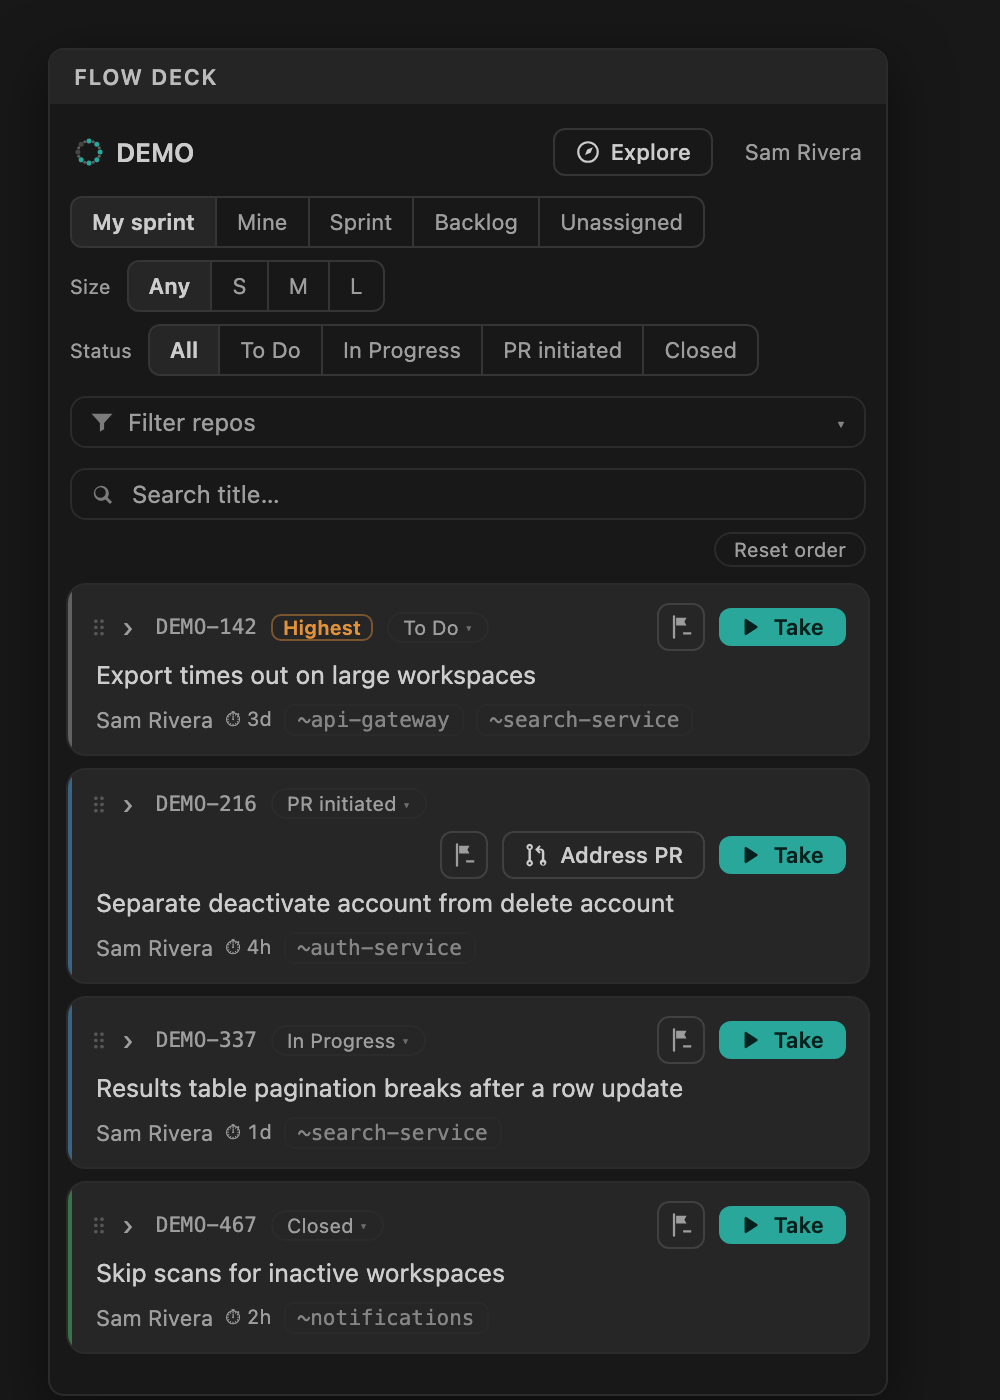
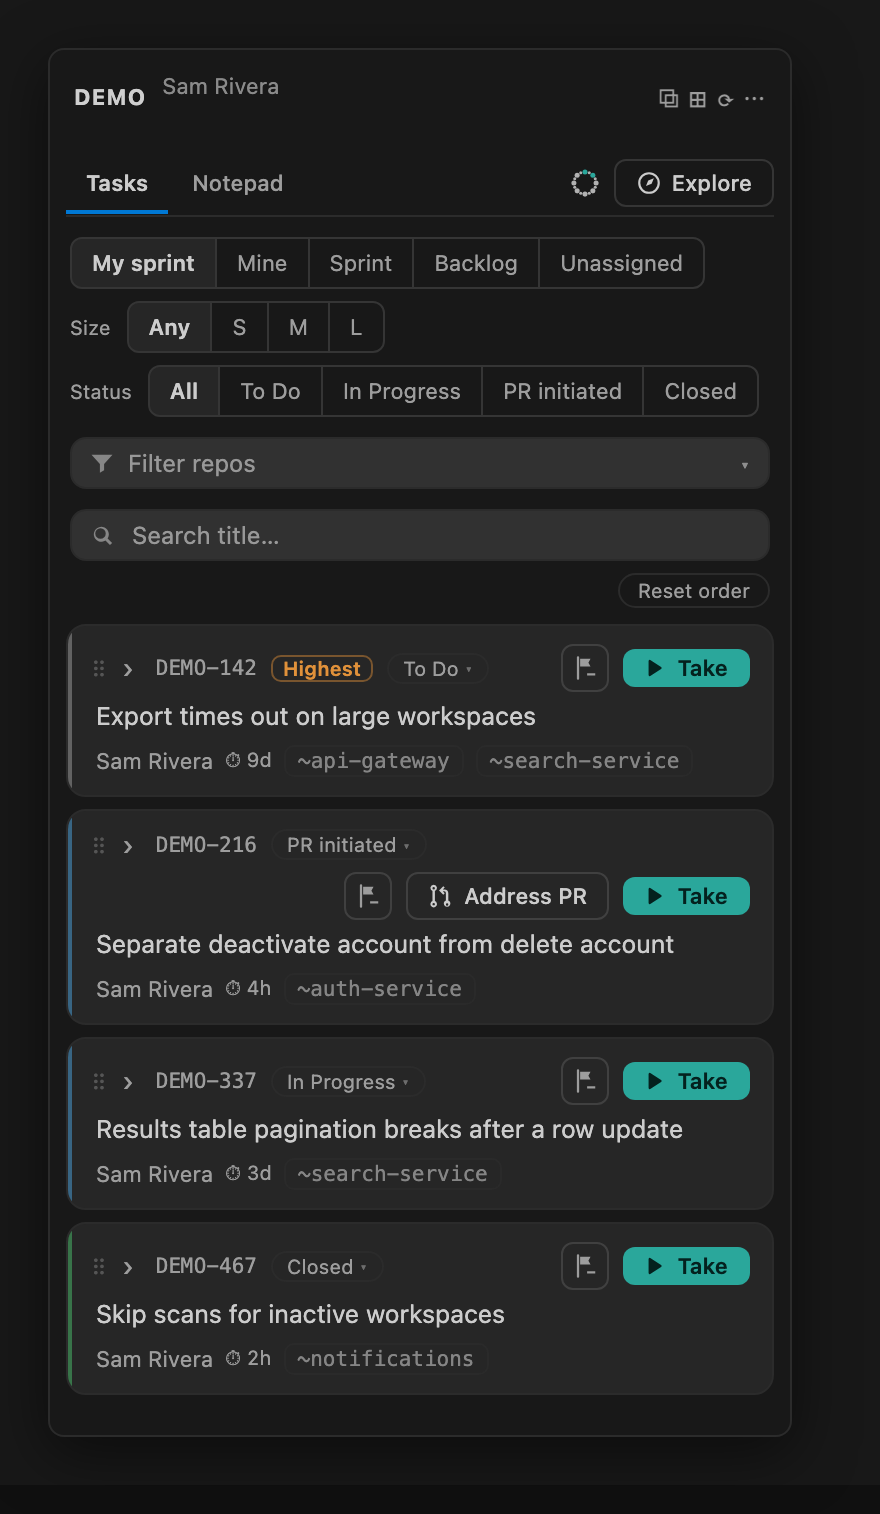
docs: cover both agent providers, the Notepad, and re-shoot every screenshot
The README still described a Claude Code-only tool and a UI two redesigns
old. Copilot landed as an agent provider in 0.10.0 and the Notepad in
0.6.0; neither reached the docs.

- Say "your agent" wherever both providers behave identically, and name
  the three places that genuinely are Claude-only: the Deck's live signal
  (it reads Claude Code's transcripts), the Marketplace (it browses
  Claude Code's plugin ecosystem), and Remote Control.
- Add a Notepad section: global storage, Start, the Running / Stale /
  Finished badge, the filter and Clear completed, and why there is no
  microphone button.
- Re-shoot all three UI screenshots from HEAD's real webview bundles.
  The sidebar shot predated the 0.9.0 tab bar and still showed the
  removed in-panel header row; the Deck shot predated the 0.11.0 header
  redesign and still showed the four toggles and the two removed tiles.
  The Deck shot now also shows the Agents lens doing its job — one
  ticket with two sessions as two cards — and a Notepad run on the
  board. All three now share one set of demo tickets, so the pool, the
  board and the notepad read as one story.
- Refresh the architecture tree, which still had `jira/` at the top
  level several releases after it became `tasks/jira/`.

diff --git a/README.md b/README.md
@@ -6,13 +6,13 @@
 </picture>
 
 <p><strong>A task pool in your sidebar.</strong> Take a Jira ticket and it opens the repos
-that ticket touches, with a Claude Code agent already briefed.</p>
+that ticket touches, with a coding agent already briefed — Claude Code, or GitHub Copilot.</p>
 
 [![CI](https://github.com/oznasi1/agent-flow/actions/workflows/ci.yml/badge.svg)](https://github.com/oznasi1/agent-flow/actions/workflows/ci.yml)
 [![License: MIT](https://img.shields.io/badge/License-MIT-blue.svg)](LICENSE)
 ![VS Code ^1.90.0](https://img.shields.io/badge/VS%20Code-%5E1.90.0-007ACC?logo=visualstudiocode&logoColor=white)
 
-<img src="media/screenshot.png" alt="The Agent Flow Deck task pool in the VS Code sidebar — segmented task, size and status lenses, a repo multiselect and a fuzzy title search, and per-card Take / Address PR actions" width="420" />
+<img src="media/screenshot.png" alt="The Agent Flow Deck panel in the VS Code sidebar. Its first row is a Tasks / Notepad tab bar with the open-window gauge and an Explore button trailing it; the project key and your name sit in VS Code's own view title bar above. Under Tasks: segmented task, size and status lenses, a repo multiselect and a fuzzy title search, then task cards with per-card Take and Address PR actions." width="420" />
 
 </div>
 
@@ -21,12 +21,22 @@ that ticket touches, with a Claude Code agent already briefed.</p>
 Agent Flow Deck turns *"what should I work on?"* into a workspace with an agent already primed.
 
 Pick a Jira task → it infers which repos the task touches → opens them as a workspace →
-seeds a task brief and pre-fills a Claude Code agent with the plan. You land ready to
+seeds a task brief and pre-fills your agent with the plan. You land ready to
 orchestrate, not ready to set up.
+
+**Which agent** is your choice: Claude Code by default, or **GitHub Copilot** with
+`agentFlow.agentProvider: copilot` (VS Code only — see
+[Where the session opens](#where-the-session-opens)). Everything below that says
+"the agent" means whichever one you've configured; the few places that are genuinely
+Claude-only say so.
 
 ## What it does
 
-- **Sidebar task pool** (webview) with filter tabs (My sprint · Unassigned · Mine ·
+- **Sidebar panel** with two tabs — **Tasks**, the pool of tickets, and
+  **[Notepad](#the-notepad--work-that-isnt-a-ticket)**, for work that never had one. The
+  project key and your name live in VS Code's own view title bar, and the open-window
+  gauge and **Explore** sit at the end of the tab row.
+- **Task pool** with filter tabs (My sprint · Unassigned · Mine ·
   Sprint · Backlog) and a size lens (S/M/L by original estimate). The size lens, status
   lens, and repo search can each be hidden if you don't use them (`agentFlow.filters.size` /
   `.status` / `.repo`, all on by default).
@@ -37,7 +47,8 @@ orchestrate, not ready to set up.
   local repo checkouts (backend *and* frontend).
 - **Open + seed** — writes `.pick-task/TASK.md` into each repo (git-excluded), generates a
   `<KEY>.code-workspace` (or one window per repo, or a per-task git worktree), and pre-fills
-  the Claude Code panel with your chosen prompt mode (you press Enter to start).
+  your agent — the Claude Code panel, Copilot Chat, or either one's CLI in a terminal —
+  with your chosen prompt mode (you press Enter to start).
 - **Address PR** — once a task reaches your PR-review status (default `PR initiated`), an
   **Address PR** button appears on the card. From the sidebar's task card it kicks off an agent
   **in a fresh worktree**; from a Deck card it re-seeds the workspace that run already has
@@ -58,7 +69,36 @@ orchestrate, not ready to set up.
   window** holding every task's worktrees with a Claude Code session seeded per task,
   stacked as tabs in one Claude group in the order you picked them. Every other destination
   *is* a single window, so it goes straight to the shared layout. Batches larger than
-  `agentFlow.batchLaunchConfirmThreshold` (default 6) ask first.
+  `agentFlow.batchLaunchConfirmThreshold` (default 6) ask first. (Under Copilot, a batch
+  writes every brief but seeds no chat panel — Copilot Chat is single-instance. See
+  [Where the session opens](#where-the-session-opens).)
+
+### The Notepad — work that isn't a ticket
+
+Not everything worth an agent has a Jira key. The panel's second tab, **Notepad**, is a
+plain list of things you want to do: a title, optional detail, a checkbox.
+
+<img src="media/notepad.png" alt="The Notepad tab of the Agent Flow Deck sidebar panel: an add-note form (title field, detail textarea, Add note button), an All / Active / Done segmented filter with a Clear completed button beside it, and three notes. Each note has a done checkbox, its title and detail, and a filled Start button with quiet edit and delete icon buttons; one note carries a blue rail and a Running badge, another a green rail and a Finished badge." width="420" />
+
+- **Notes are yours, not the workspace's.** They're stored in the editor's global state,
+  not per-workspace, so the same list is there whichever repo or workspace the panel
+  happens to be open against.
+- **Start** kicks off an agent from a note the same way **Explore** does: it asks where to
+  open and which repos to use, writes a `## Notepad:` brief from the note's title and
+  detail (with Explore's topic-agnostic prompt), and seeds your agent. The note stays in
+  the list afterwards — running it isn't the same as finishing it.
+- **The run lands on the Deck** like any other, and the note grows a badge tracking it:
+  **Running** while an agent is attached, **Stale** once nothing is, **Finished** when the
+  Deck records it as landed. Re-running a note replaces that note's previous run rather
+  than piling up a second record.
+- **Filter and clear.** The list opens on **Active**; **All** and **Done** are a click
+  away, and **Clear completed** removes every checked note in one action (it only appears
+  when there's something to clear).
+
+The fields are ordinary text inputs, so your operating system's own dictation — double-tap
+Control on macOS, `Win`+`H` on Windows — types straight into them. Agent Flow ships no
+microphone button of its own: a VS Code webview can't reach the microphone, and Electron
+can't run the Web Speech API.
 
 ### The Deck — your in-flight board
 
@@ -66,13 +106,16 @@ Once you've taken tasks, the **Deck** (open it with **"Open the Deck (in-flight)
 is the board of everything you've launched, in a classic pipeline —
 **In progress · Action required · In review · Done**.
 
-<img src="media/deck.png" alt="The Agent Flow Deck: a four-column in-flight board (In progress, Action required, In review, Done). Each card shows its branch and launch time, per-repo diff stats with dirty/ahead markers, a best-effort live agent status (working, idle, ended turn, parked, or merged), the PR and CI state, the Jira status, and Open / Diff actions. Cards are monochrome except in Action required, whose one card carries an orange rail, status and Open button; a summary strip counts In progress, Action required and In review." />
+<img src="media/deck.png" alt="The Agent Flow Deck: a four-column in-flight board (In progress, Action required, In review, Done). Its header carries the title, three tiles counting In progress, Action required and In review, an Agents / Workspaces lens and a refresh reading 'synced 4s ago'. Each card shows its branch and launch time, per-repo diff stats with dirty/ahead markers, a live agent status (working, idle, ended turn, parked, or merged), the PR and CI state, the Jira status, and Open / Diff actions. In the Agents lens one ticket with two sessions renders as two cards, and a note started from the Notepad tab sits among them marked 'notepad'. Cards are monochrome except in Action required, whose one card carries an orange rail, status and Open button." />
 
 The columns are a neutral git + Jira backbone; each **card** carries the true live state.
 A best-effort **Live signal** (read from your local Claude Code transcripts) tells `working ·
 Ns ago` from `idle`, `ended turn` (needs you), or `parked` — a card only reads `parked` when
 its transcript can't be read, or doesn't exist yet, which is the one route back to the git +
-Jira backbone. **Open** focuses the window if it's already open (never a duplicate) and
+Jira backbone. The live signal is **Claude Code only** — it reads Claude Code's own
+transcripts, and Copilot writes nothing equivalent, so a task launched under
+`agentFlow.agentProvider: copilot` still gets a card, with the git + Jira + PR
+backbone but no agent on it. **Open** focuses the window if it's already open (never a duplicate) and
 opens it fresh otherwise; **Diff** shows the working diff; **⋯** offers *Open in Jira* and
 *Forget*.
 
@@ -126,7 +169,7 @@ sort by **oldest** (what you owe most) or **smallest** (what you can clear befor
 standup). Expanding a row fetches which checks failed and how many review threads
 are still open, alongside the review decision and mergeability. **Review with agent**
 checks the PR out into a worktree and seeds
-Claude Code to review the diff and write its findings to
+your agent to review the diff and write its findings to
 `.pick-task/REVIEW-<number>.md`, which the row can then load into the review box.
 Turn the strip off with `agentFlow.reviewRequests`; it also goes dark whenever
 `agentFlow.prFacts` is off, since both lean on the same `gh` dependency.
@@ -142,7 +185,9 @@ you turn `agentFlow.stampLabelOnWrite` off.
 
 The **Marketplace** (open it with the puzzle-piece (`$(extensions)`) button beside the
 Deck's button in the sidebar title bar, or **"Open the Marketplace"**) is a
-searchable browser of everything Claude Code can do on this machine. It reads your local
+searchable browser of everything Claude Code can do on this machine — the one panel that is
+Claude-specific whatever `agentFlow.agentProvider` says, since it browses Claude Code's own
+plugin ecosystem. It reads your local
 `~/.claude` — the marketplaces you've added, the plugins you've installed, and the skills,
 slash commands, agents and hooks inside them — plus any skills or commands you wrote
 yourself in `~/.claude` or in the open workspace's `.claude/`.
@@ -197,9 +242,11 @@ marketplaces show up here on the next scan.
      ```
      …or in the Extensions view use **⋯ → Install from VSIX…**.
    - _(Once published, you'll also be able to install it from the VS Code Marketplace.)_
-2. **Install the [Claude Code extension](https://marketplace.visualstudio.com/items?itemName=anthropic.claude-code)**
-   (`anthropic.claude-code`) — Agent Flow Deck seeds its agent panel. Without it, the task brief
-   is still written and used as a fallback.
+2. **Install a coding agent.** By default that's the
+   [Claude Code extension](https://marketplace.visualstudio.com/items?itemName=anthropic.claude-code)
+   (`anthropic.claude-code`), whose panel Agent Flow Deck seeds. If you'd rather use
+   **GitHub Copilot**, install it and set `agentFlow.agentProvider` to `copilot` (VS Code
+   only). With neither, the task brief is still written and used as a fallback.
 3. **Open the Agent Flow Deck icon** in the activity bar. On first activation it offers a guided
    setup — enter your Jira site, project key, and repos directory, then sign in with an
    [Atlassian API token](https://id.atlassian.com/manage-profile/security/api-tokens).
@@ -207,14 +254,17 @@ marketplaces show up here on the next scan.
 4. **Pick a task** from the pool. Click a card to expand it — the inferred repos are
    pre-selected; adjust them, then press **▶ Take**.
 5. **Land in a primed workspace.** Agent Flow Deck opens the task's repos, drops a
-   `.pick-task/TASK.md` brief into each, and pre-fills the Claude Code panel with your
+   `.pick-task/TASK.md` brief into each, and pre-fills your agent's panel with your
    prompt — press **Enter** to start.
 
 ## Requirements
 
 - **VS Code** (or Cursor) `^1.90.0`.
-- The **Claude Code** extension (`anthropic.claude-code`) — for the agent seed (optional;
-  the task brief is the guaranteed fallback).
+- A coding agent for the seed (optional; the task brief is the guaranteed fallback) —
+  the **Claude Code** extension (`anthropic.claude-code`), or **GitHub Copilot** with
+  `agentFlow.agentProvider: copilot` in VS Code. With
+  `agentFlow.agentSurface: terminal` it's that agent's CLI (`claude` or `copilot`)
+  on your `PATH` instead of its extension.
 - An **Atlassian API token** for your Jira Cloud account
   ([create one](https://id.atlassian.com/manage-profile/security/api-tokens)).
 - The **`gh` CLI**, signed in (`gh auth login`) — for the Deck's PR/CI state
@@ -400,14 +450,16 @@ src/
 ├── extension.ts        # activation, commands, first-run + seed-on-activation hooks
 ├── setup.ts            # guided first-run configuration wizard
 ├── tasksView.ts        # sidebar webview provider + the pick→confirm→open flow
+├── notepad.ts          # the Notepad's globalState store + run-status derivation
 ├── deckView.ts         # the Deck panel: in-flight runs, live signal, open/diff
 ├── marketplaceView.ts  # the Marketplace panel: scan, file reads, open/reveal/copy
+├── doctorView.ts       # the Doctor report: Jira + gh + agent-provider probes
 ├── config.ts           # settings accessor
 ├── types.ts            # shared host ↔ webview message types
-├── jira/
-│   ├── auth.ts         # JiraAuth interface + ApiTokenAuth (SecretStorage)
-│   ├── client.ts       # REST client: search, getIssue, transitions
-│   └── jql.ts          # the JQL behind each filter lens
+├── tasks/              # the task source, behind one connector interface
+│   ├── provider.ts     # TaskProvider + capabilities (what a source can do)
+│   ├── registry.ts     # which connector is active
+│   └── jira/           # the Jira connector: auth (SecretStorage), REST client, JQL
 ├── engine/             # the logic, kept out of the views so it can be tested directly
 │   ├── repos.ts        # discover local repo checkouts
 │   ├── infer.ts        # component/label/text → service matching
@@ -415,16 +467,30 @@ src/
 │   ├── workspace.ts    # briefs, .code-workspace, plan.json, open windows, agent seed
 │   ├── runs.ts         # what you've launched, for the Deck
 │   ├── transcript.ts   # best-effort live agent state from ~/.claude/projects
+│   ├── sessions.ts     # Claude Code's own registry of running sessions
+│   ├── pr/             # PR facts + the review queue, over the `gh` CLI
+│   ├── review/         # "Review with agent": search, sort, launch, store
 │   ├── claudeAssets.ts # scan ~/.claude: marketplaces, plugins, skills, commands, hooks
 │   ├── sections.ts     # the Marketplace's category order (Yours → size → Uncategorized)
 │   ├── fuzzy.ts        # the ranked fuzzy match behind the Marketplace's search
 │   └── markdown.ts     # the parse-to-tree markdown renderer behind the file preview
-└── webview/            # React UIs — task pool, Deck, Marketplace (three esbuild bundles)
+├── telemetry/          # anonymous usage events (see docs/TELEMETRY.md)
+└── webview/            # React UIs — task pool + Notepad, Deck, Marketplace
+                        # (three esbuild bundles)
 ```
 
-Auth is behind the `JiraAuth` interface: v1 ships the API-token provider; the OAuth
-web-flow provider (a `vscode.AuthenticationProvider` that opens the browser) drops in later
-with no changes to the client or UI.
+The task source sits behind the `TaskProvider` interface with a capability record, so a
+connector that has no sprints or no size estimates hides those lenses instead of faking
+them — see [docs/CONNECTORS.md](docs/CONNECTORS.md). Jira auth is behind `JiraAuth`: v1
+ships the API-token provider; the OAuth web-flow provider (a
+`vscode.AuthenticationProvider` that opens the browser) drops in later with no changes to
+the client or UI.
+
+The agent seed is one chokepoint in `engine/workspace.ts` that every launch path — take,
+batch, Explore, Notepad, Deck relaunch, Address PR, Review with agent — goes through. It
+resolves `agentFlow.agentProvider` × `agentFlow.agentSurface` **at seed time in the target
+window**, never from the plan file, so flipping either setting also changes plans already
+on disk.
 
 ## Develop / run
 
@@ -443,11 +509,14 @@ See [CONTRIBUTING.md](CONTRIBUTING.md) for the full command list and conventions
 ## Status
 
 v1 — task pool, filters, size lens, service inference, worktrees, open + seed, and status
-changes from a card, plus the **Deck** (the in-flight board) and the **Marketplace** (the
-read-only browser over `~/.claude`). The agent seed calls the Claude Code extension command
-(`claude-vscode.primaryEditor.open`) with a URI-handler and clipboard fallback; the seeded
-brief is the guaranteed fallback. Deferred: OAuth web sign-in, cloning not-yet-checked-out
-repos, multi-project.
+changes from a card, plus the **Notepad** (ticketless work), the **Deck** (the in-flight
+board) and the **Marketplace** (the read-only browser over `~/.claude`). Every launch path
+funnels through one seed chokepoint, which dispatches on `agentFlow.agentProvider` ×
+`agentFlow.agentSurface`: the Claude Code extension command
+(`claude-vscode.primaryEditor.open`) with a URI-handler and clipboard fallback, Copilot
+Chat's `workbench.action.chat.open`, or the matching CLI in an integrated terminal. The
+seeded brief is the guaranteed fallback under all four. Deferred: OAuth web sign-in,
+cloning not-yet-checked-out repos, multi-project.
 
 See [CHANGELOG.md](CHANGELOG.md) for the release history.
 
